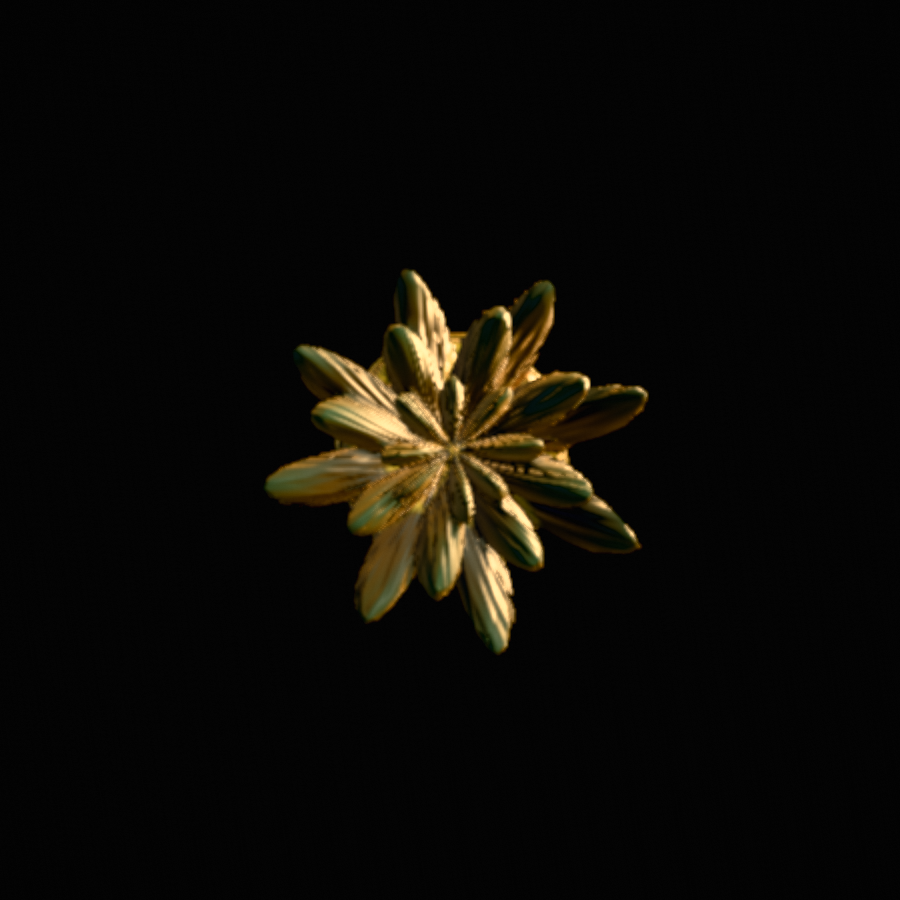
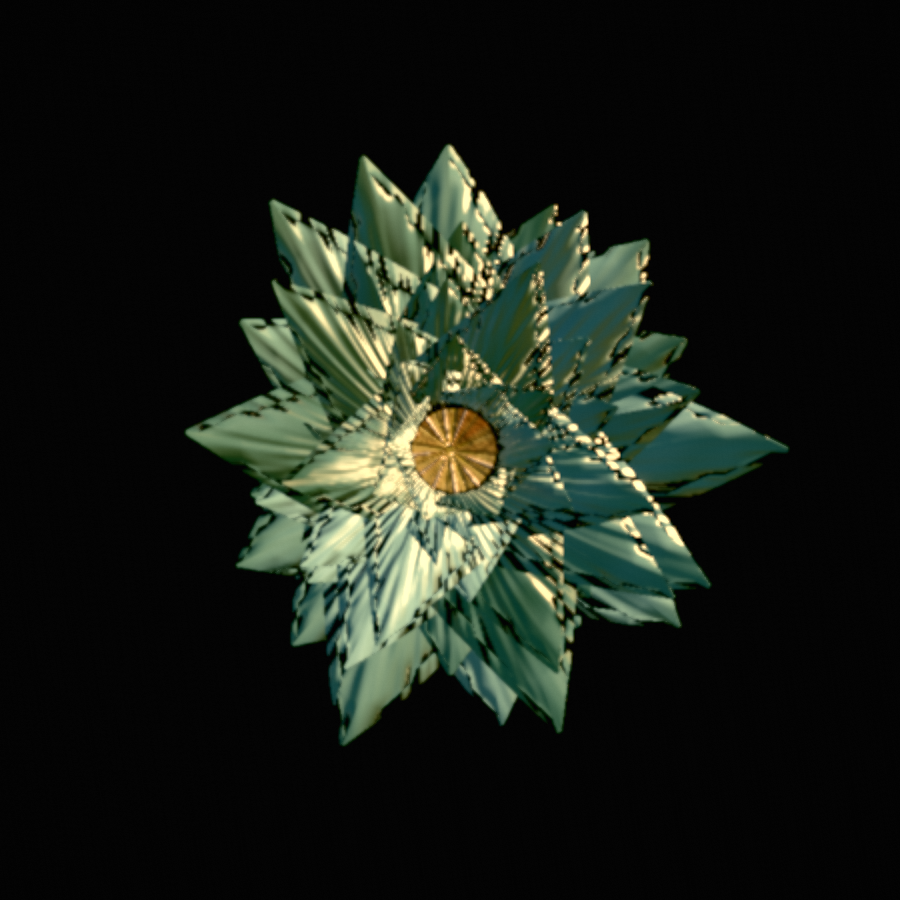
r48: the pineapple crown and cut face — real leaves on a small hub, grey-green rosette, rind and cream flesh (#44)
The pineapple's crown and its sliced face, iterated against reference
photos through the same render-and-measure loop as the shell (#42).

**Crown (r48–r48e).** The radial-bump crown could not root on a small
disc and lean outward at once, so the pineapple now uses the
strawberry's real-leaf builder: six whorls of pillow leaves on a hub
0.36 body radii wide, spines curving outward, basal leaflets around the
hub, ~45% of body height by design (slicing through leaves is not the
fun part). Leaf shading gained per-material options on the shared law —
fresh-green ramp, sheen and clearcoat gated off appendages, a mottled
grey-green bloom with per-blade variation and hub occlusion, a leaf-only
emissive standing in for translucency — all runtime uniforms
(`window.__zsLeaf`, `leaf.` keys in `tools/pineloop.mjs`).

**Bugs found on the way.** Leaf strip winding flipped along a drooping
spine and back-face culling ate every other triangle (black strips) —
each triangle is now verified against its sheet normal. The sheen gate
returned a scalar and turned every sheened skin's sheen white (the kiwi
regression) — it carries the material's sheen colour now.

**Cut face (r48g–r48h).** Every crown cut was falling to the cutter's
soup cap: grazing crossings through the thin leaves dropped the
chainer's coverage under its floor, so no rind ring and leaf sections
painted as flesh. Leaf crossings now chain apart from the body's;
[…]

Changed region(s): [[0.1867, 0.1556, 0.8711, 0.84]]

diff --git a/src/fruit/species.js b/src/fruit/species.js
@@ -2190,6 +2190,27 @@ function skinMaterial(sp, body, o = {}) {
   // brighter, more saturated foliage than plate-01's grey-green crown.
   const A_FOLF = fromKeyLit(0.0560, 0.1240, 0.0510);
 
+  // r48b: the leaf options are UNIFORMS (tunable at runtime through
+  // window.__zsLeaf for the pineapple), defaults from `o`
+  const LU = {
+    tint: uniform(new THREE.Vector3(...(o.leafTint || [1, 1, 1]))),
+    bloom: uniform(o.leafBloom || 0), bloomSpan: uniform(o.leafBloomSpan ?? 0.55),
+    bloomColor: uniform(new THREE.Vector3(...(o.leafBloomColor || [0.11, 0.125, 0.105]))),
+    mottle: uniform(o.leafMottle || 0), glow: uniform(o.leafGlow || 0),
+    // r48d: the range's two ends and its per-leaf spread — how dark the
+    // un-bloomed green goes (mottleDark), how far the bloom amount swings
+    // (mottleRange), per-blade variation from the blade's own uv.x (leafVar),
+    // and a darkening toward the hub that reads as occlusion (leafAO)
+    mottleDark: uniform(o.leafMottleDark ?? 0.45), mottleRange: uniform(o.leafMottleRange ?? 0.5),
+    leafVar: uniform(o.leafVar ?? 0.0), leafAO: uniform(o.leafAO ?? 0.0),
+  };
+  m.userData.leafU = LU;
+  if (typeof window !== 'undefined' && sp.id === 'pineapple') {
+    window.__zsLeaf = {
+      set(k, v) { const x = LU[k]; if (!x) return false; if (Array.isArray(v)) x.value.set(v[0], v[1], v[2]); else x.value = v; return true; },
+      get: () => Object.fromEntries(Object.entries(LU).map(([k, x]) => [k, x.value.isVector3 ? [x.value.x, x.value.y, x.value.z] : x.value])),
+    };
+  }
   m.colorNode = Fn(() => {
     const f = frame();
     // r47o `o.capK`: a per-material ceiling factor (skins have no floor, so
@@ -2206,7 +2227,7 @@ function skinMaterial(sp, body, o = {}) {
     // r47c `o.leafTint`: a per-material multiplier on the foliage colour —
     // the pineapple crown on the reference is a brighter, greyer green than
     // plate-01's, and its blades are broad enough to want it
-    const tintV = o.leafTint ? vec3(o.leafTint[0], o.leafTint[1], o.leafTint[2]) : vec3(1.0, 1.0, 1.0);
+    const tintV = LU.tint;
     const leafC = (o.leafFresh
       // fresh: green from the root, no die-back straw at the tip
       ? mix(A_ROOT, A_FOLF, ss(1.030, 1.200, a.y)).mul(vary.mul(0.20).add(1.0))
@@ -2219,9 +2240,26 @@ function skinMaterial(sp, body, o = {}) {
       .toVar();
     // r47e `o.leafBloom`: a waxy grey-white bloom over the lower blade, as
     // on a pineapple crown's rosette — strongest at the root, gone by mid-blade
-    const bloomed = o.leafBloom
-      ? mix(leafC.mul(tintV), fromKeyLit(0.1100, 0.1250, 0.1050), ss(0.55, 0.05, a.bh).mul(o.leafBloom))
-      : leafC.mul(tintV);
+    // `o.leafBloomSpan` (r48): how far up the blade the bloom reaches — 0.55
+    // is the root-only bloom of r47e; the pineapple's crown is waxy grey-green
+    // to the tips on the reference, so it runs the whole blade (1.0)
+    // `o.leafMottle` (r48b): the bloom is UNEVEN — on the reference crown the
+    // wax sits in pale grey patches, thins to mid grey-green, and the leaf
+    // margins stay a darker green. A low-frequency field over position drives
+    // the bloom amount and darkens the leaf where the bloom thins, so the
+    // rosette is three greens instead of one.
+    const field = fbm2(vec2(f.P.x.mul(2.6).add(f.P.z.mul(1.9)), f.P.y.mul(1.7).add(f.P.z.mul(0.8))), 2, float(1.0)).mul(0.5).add(0.5);
+    // per-blade: a hash of the blade's uv.x (constant along a real leaf)
+    const perLeaf = fract(sin(uv().x.mul(537.13).add(11.7)).mul(43758.5453));
+    const mott = mix(field, perLeaf, LU.leafVar).toVar();
+    const bloomAmt = LU.bloom.mul(mott.mul(LU.mottle).mul(LU.mottleRange.mul(2.0)).add(float(1.0).sub(LU.mottle.mul(LU.mottleRange))));
+    const ao = float(1.0).sub(ss(0.45, 0.0, a.bh).mul(LU.leafAO));
+    const leafBase = leafC.mul(tintV).mul(float(1.0).sub(mott.oneMinus().mul(LU.mottle).mul(LU.mottleDark))).mul(ao);
+    const E = vec3(E_KEY[0], E_KEY[1], E_KEY[2]);
+    // bloom mask: full below `span − 0.3`, fading out by `span + 0.3` (r48c —
+    // the old ss(span, 0.05, bh) faded to ZERO at the tip, so "span 1.0"
+    // half-bloomed the blade and no bloom colour could read as pale)
+    const bloomed = mix(leafBase, LU.bloomColor.div(E).mul(ao), ss(LU.bloomSpan.add(0.3), LU.bloomSpan.sub(0.3), a.bh).mul(bloomAmt).clamp(0.0, 1.0));
     alb.assign(mix(alb, bloomed, a.leafy));
     alb.assign(mix(alb, woodC, a.wood));
     return alb;
@@ -2254,6 +2292,32 @@ function skinMaterial(sp, body, o = {}) {
     m.clearcoatNode = Fn(() => {
       const a = appendage();
       return float(cc0).mul(max(a.leafy, a.wood).mul(0.88).oneMinus());
+    })();
+  }
+  // r48 `o.leafGlow`: a faint self-lit term on foliage only — a stand-in for a
+  // thin leaf's translucency. The pineapple's recurving outer leaves show the
+  // camera their UNDERSIDES, which face away from the key over a black void
+  // and rendered as black spikes; a real crown's undersides are lit through.
+  if (o.leafGlow > 0) {
+    m.emissiveNode = Fn(() => {
+      const a = appendage();
+      const f = frame();
+      const vary = ringN(f.lon, 11.0, a.y.mul(2.2));
+      const base = o.leafFresh ? A_FOLF : A_FOL;
+      return base.mul(LU.tint).mul(vary.mul(0.15).add(1.0)).mul(a.leafy.mul(LU.glow));
+    })();
+  }
+  // r48: the same for SHEEN — the pineapple's gold sheen on its leaves read as
+  // a yellow glint where the reference crown has a grey-white bloom
+  // (r48f: sheenNode is the sheen COLOUR × amount as a vec3 — a scalar here
+  // made every sheened skin's sheen WHITE, which turned the kiwi's brown fuzz
+  // white-grey. It carries the material's own sheenColor now.)
+  if ((o.mat && o.mat.sheen) > 0) {
+    const sh0 = o.mat.sheen;
+    const sc = o.mat.sheenColor || new THREE.Color(1, 1, 1);
+    m.sheenNode = Fn(() => {
+      const a = appendage();
+      return vec3(sc.r, sc.g, sc.b).mul(sh0).mul(max(a.leafy, a.wood).mul(0.9).oneMinus());
     })();
   }
 
@@ -3911,9 +3975,12 @@ function pineTune() {
 // ─────────────────────────────────────────────────────────────────────────────
 
 function paLayers(cc) {
+  // r48g, from the reference cut: a paler core to ~0.28 of the radius, a
+  // thin DARK GREEN rind (~4% of the radius) with a yellow-green inner edge
   return {
-    core: ss(0.24, 0.06, cc.rad).toVar(),
-    shell: ss(0.930, 0.985, cc.rad),
+    core: ss(0.30, 0.10, cc.rad).toVar(),
+    shell: ss(0.945, 0.965, cc.rad),
+    rindEdge: ss(0.905, 0.925, cc.rad).mul(ss(0.965, 0.945, cc.rad)),
   };
 }
 
@@ -4068,7 +4135,12 @@ def({
       bump: 0.0220,
       // the crown: brighter grey-green, calmer ribs (the 26-per-turn rib ran
       // as striping on the device)
-      leafTint: [1.30, 1.28, 1.22], rib: 0.6, leafBloom: 0.55, capK: 1.12,
+      // r48: real leaves (geometry.js buildLeafCrown) — green from the root
+      // like the strawberry's calyx; the shared brown-root ramp painted most
+      // of a real blade brown, since its uv band starts at 1.0 at the hub
+      leafFresh: true, leafTint: [1.50, 1.62, 1.42], rib: 0.5,
+      leafBloom: 0.90, leafBloomSpan: 1.0, leafBloomColor: [0.3600, 0.4600, 0.3400], leafMottle: 1.0, leafGlow: 0.20,
+      leafMottleDark: 0.90, leafMottleRange: 1.00, leafVar: 0.60, leafAO: 0.50, capK: 1.12,
       // r47i: the shell GLINTS — a waxed rind under the key. Clearcoat and
       // specular up (the player: "I want light to really glint off this")
       mat: {
@@ -4086,7 +4158,8 @@ def({
     const pockets = (cc) => {
       const p = vec2(cc.aN.mul(14.0), cc.rad.mul(4.5)).toVar();
       const c = cellPt(p, 7.0, 0.8, 14);
-      const band = ss(0.22, 0.34, cc.rad).mul(ss(0.78, 0.90, cc.rad).oneMinus());
+      // r48g: the pits sit along the RIND on the reference, not mid-flesh
+      const band = ss(0.84, 0.90, cc.rad).mul(ss(0.99, 0.95, cc.rad));
       return blob(c.d, 0.20, 0.40).mul(step(0.30, c.id)).mul(band).mul(cellFade(p)).toVar();
     };
     // r37 — THE CROWN CUT. A lengthwise slice runs through the crown, and the
@@ -4102,59 +4175,60 @@ def({
     // hook: no foam, no juice pool, no wet gloss on a leaf (matte 0.82), and
     // the sss transmission is gated below for the same reason.
     const crownCut = () => step(8.0, uv().x);
+    // r48h: where on the fruit this rim sits — the cutter writes the rim's
+    // source skin uv.y into the cap's u (0.02 bottom … 0.98 top). The rind
+    // ends at the crown base instead of crossing under the crown.
+    const topOfFruit = () => ss(0.84, 0.94, fract(uv().x));
     return fleshMaterial(this, {
       dry: () => crownCut(),
       albedo: (cc, u) => {
         const { ang, rad, q } = cc;
-        const fib = ringN(ang, 18.0, rad.mul(2.6).add(2.0)).mul(ss(0.05, 0.30, rad))
-          .add(ringN(ang, 38.0, rad.mul(4.2).add(9.0)).mul(0.6)
-            .mul(ss(0.26, 0.60, rad)).mul(u.detail)).toVar();
-        const gr = fbm2(q.mul(28.0), 2, u.detail).toVar();
-
-        // ROUND 4, case A. The fib/gr tail peaks at 1.20, so the base's budget
-        // is 0.90/1.20 = 0.75; 0.67 leaves the peak at 0.582 scene-linear.
-        // ROUND 5, case B, x0.44: 0.582 was the peak at N.L = 0.49 and 1.29 at
-        // N.L = 1. Now 0.546 at N.L = 1, and the soft ceiling in fleshMaterial
-        // takes the very top of the fib tail rather than letting it clip.
-        const alb = vec3(0.2948, 0.1989, 0.0286)
-          .mul(fib.mul(0.42).add(gr.mul(0.18)).add(0.80)).toVar();
-        // eye pockets: darker fibrous nodes in concentric arcs
-        alb.assign(mix(alb, vec3(0.1232, 0.0616, 0.0092), pockets(cc).mul(0.80)));
-
         const L = paLayers(cc);
         const kr = capKey();
-        alb.assign(mix(alb, vec3(0.3080, 0.2825, 0.1668)
-          .mul(rdg2(vec2(ang.mul(10.0), rad.mul(22.0)), 2).mul(0.26).add(0.86)), L.core.mul(0.90)));
-        alb.mulAssign(ss(0.790, 0.872, rad).mul(ss(0.872, 0.930, rad).oneMinus())
-          .mul(0.44).oneMinus());
-        alb.assign(mix(alb, vec3(0.1452, 0.0792, 0.0132).mul(kr), L.shell));
-        // leaf interior: the crown's own grey-green (the skin's bract tint,
-        // shaded a touch darker — an interior face sees less light), with a
-        // little fbm so a wide blade cross-section is not a flat decal
+        // r48h, from the reference cut: the centre half is a rich juicy
+        // yellow; toward the rind it goes whiter and finely fibrous. No
+        // spokes, no star — the fibres are fine radial lines at low
+        // contrast, denser near the edge.
+        const toEdge = ss(0.35, 0.95, rad);
+        const fine = ringN(ang, 64.0, rad.mul(5.0)).mul(0.5).add(0.5)
+          .mul(ss(0.30, 0.80, rad)).mul(u.detail);
+        const gr = fbm2(q.mul(14.0), 2, u.detail).mul(0.5).add(0.5);
+        const rich = vec3(0.4700, 0.3600, 0.0900), cream = vec3(0.4300, 0.4000, 0.1900);
+        const alb = mix(rich, cream, toEdge).mul(gr.mul(0.06).add(0.97)).toVar();
+        alb.assign(mix(alb, cream.mul(1.04), fine.mul(0.35)));
+        // the core: a soft pale disc, no striations
+        alb.assign(mix(alb, vec3(0.4300, 0.4100, 0.2600), L.core.mul(0.6)));
+        // the rind: a yellow-green inner edge, then dark green skin — ending
+        // where the rim is the fruit's top (the crown base)
+        const notTop = topOfFruit().oneMinus();
+        alb.assign(mix(alb, vec3(0.0900, 0.0500, 0.0100), pockets(cc).mul(0.85).mul(notTop)));
+        alb.assign(mix(alb, vec3(0.2200, 0.2400, 0.0600), L.rindEdge.mul(0.9).mul(notTop)));
+        alb.assign(mix(alb, vec3(0.0500, 0.0900, 0.0200).mul(kr), L.shell.mul(notTop)));
+        // leaf interior: the crown's own grey-green, shaded a touch darker
         const leaf = vec3(0.1050, 0.1480, 0.0330)
           .mul(fbm2(q.mul(16.0), 2, u.detail).mul(0.30).add(0.85)).toVar();
         alb.assign(mix(alb, leaf, crownCut()));
         return alb;
       },
       relief: (cc, u) => {
-        const L = paLayers(cc);
-        // leaves are smooth inside: fade the fibre rings out across the gate
-        return ringN(cc.ang, 18.0, cc.rad.mul(2.6).add(2.0)).mul(0.85)
-          .add(fbm2(cc.q.mul(28.0), 2, u.detail).mul(0.4))
-          .sub(pockets(cc).mul(0.8)).add(L.core.mul(0.45))
+        // smooth and wet: fine fibres only, a little grain, nothing lumpy
+        return ringN(cc.ang, 64.0, cc.rad.mul(5.0)).mul(0.30).mul(ss(0.30, 0.80, cc.rad))
+          .add(fbm2(cc.q.mul(14.0), 2, u.detail).mul(0.15))
           .mul(crownCut().mul(0.85).oneMinus());
       },
       rough: (cc, u) => {
         const L = paLayers(cc);
-        return mix(u.rough, float(0.55), L.core).add(L.shell.mul(0.25));
+        // as wet as it goes: a juice-slick face, the core a touch drier,
+        // the rind matte
+        return mix(u.rough, float(0.30), L.core).add(L.shell.mul(0.35));
       },
       sssMask: (cc) => {
         const L = paLayers(cc);
         // a leaf does not glow with transmitted juice light
-        return L.shell.oneMinus().mul(L.core.mul(0.7).oneMinus())
+        return L.shell.oneMinus().mul(L.core.mul(0.6).oneMinus())
           .mul(crownCut().oneMinus());
       },
-    }, { rough: 0.32, wet: 0.95, bump: 0.0298, floor: [0.1300, 0.0770, 0.0110] });
+    }, { rough: 0.16, wet: 1.0, bump: 0.0120, floor: [0.1300, 0.0770, 0.0110] });
   },
 });
 

diff --git a/src/fruit/geometry.js b/src/fruit/geometry.js
@@ -2020,12 +2020,18 @@ export const SHAPE_VARIANTS = {
       },
       pineapple: {
         lumps: 0.010,
-        crown: {
-          cols: 88,
+        // r48: REAL LEAVES (buildLeafCrown), as the strawberry's calyx — a
+        // rosette on a small hub at the pole, spines curving outward, air
+        // under the blades. The body crown is deleted.
+        crown: null,
+        leaves: {
+          rootR: 0.36, rootLift: 0.03,
           whorls: [
-            { n: 8, a: 0.12, len: 1.911, wArc: 0.0820, round: true, skew: 0.25, wp: 0.220, pPol: 3.00, pAz: 1.15, phase: 0.00, jit: 0.05, jitA: 0.024 },
-            { n: 8, a: 0.29, len: 1.732, wArc: 0.0950, round: true, skew: 0.30, wp: 0.220, pPol: 3.00, pAz: 1.15, phase: 0.33, jit: 0.06, jitA: 0.028 },
-            { n: 8, a: 0.46, len: 1.466, wArc: 0.1070, round: true, skew: 0.55, wp: 0.220, pPol: 3.00, pAz: 1.15, phase: 0.67, jit: 0.07, jitA: 0.032 },
+            { n: 12, beta: 0.03, len: 2.17, width: 0.51, thick: 0.06, droop: 0.15, kick: 0.03, cup: 0.45, jitPhi: 0.1, jitBeta: 0.05, jitLen: 0.25 },
+            { n: 14, beta: 0.18, len: 2.45, width: 0.6, thick: 0.06, droop: 0.42, kick: 0.12, cup: 0.45, phase: 0.5, jitPhi: 0.1, jitBeta: 0.08, jitLen: 0.25 },
+            { n: 16, beta: 0.34, len: 2.31, width: 0.724, thick: 0.06, droop: 0.62, kick: 0.22, cup: 0.45, phase: 0.25, jitPhi: 0.1, jitBeta: 0.1, jitLen: 0.25 },
+            { n: 16, beta: 0.55, len: 1.82, width: 0.724, thick: 0.06, droop: 1.2, kick: 0.4, cup: 0.45, phase: 0.75, jitPhi: 0.12, jitBeta: 0.12, jitLen: 0.25 },
+            { n: 22, beta: 1.05, len: 0.84, width: 0.34, thick: 0.06, droop: 0.45, kick: 0.15, cup: 0.35, phase: 0.35, jitPhi: 0.14, jitBeta: 0.18, jitLen: 0.3 },
           ],
         },
       },
@@ -2526,7 +2532,7 @@ function bladeHeight(blades, a, phi) {
  * path — with no shader work here.
  */
 function buildLeafCrown(LS, yRoot, seedPh) {
-  const P = [], UV = [], idx = [];
+  const P = [], UV = [], idx = [], SN = [];
   const SEC = 8;                       // cross sections along the spine
   const rootR = LS.rootR ?? 0.06;
   let wi = 0;
@@ -2543,10 +2549,13 @@ function buildLeafCrown(LS, yRoot, seedPh) {
       const base = P.length / 3;
       let dR = rootR, yy = yRoot + (LS.rootLift ?? 0.0);
       const ds = L / (SEC - 1);
+      let rootDir = [0, 1, 0], tipDir = [0, 1, 0];
       for (let sI = 0; sI < SEC; sI++) {
         const s = sI / (SEC - 1);
         const theta = beta + (w.droop || 0) * s - (w.kick || 0) * s * s;
         const st = Math.sin(theta), ct = Math.cos(theta);
+        if (sI === 0) rootDir = [st * er[0], ct, st * er[2]];
+        if (sI === SEC - 1) tipDir = [st * er[0], ct, st * er[2]];
         // in-plane sheet normal (perpendicular to the spine, pointing up-out)
         const nr = -ct, ny = st;
         // blade half-width: broad by 40% out, tapering to a point
@@ -2567,6 +2576,7 @@ function buildLeafCrown(LS, yRoot, seedPh) {
         const bmx = cx - 0.5 * th * (nr * er[0]), bmy = cy - 0.5 * th * ny;
         const bmz = cz - 0.5 * th * (nr * er[2]);
         P.push(exm, eym, ezm, exp_, eym, ezp, tmx, tmy, tmz, bmx, bmy, bmz);
+        SN.push(nr * er[0], ny, nr * er[2]);   // the section's sheet normal (r48c)
         const u = phi / TAU - Math.floor(phi / TAU);
         const v = 1.0 + 0.66 * s;      // the LEAF uv band — see the contract
         UV.push(u, v, u, v, u, v, u, v);
@@ -2576,15 +2586,53 @@ function buildLeafCrown(LS, yRoot, seedPh) {
       // stitch sections: per pair, 4 top + 4 bottom triangles.
       // Winding derived in the local frame (X=azimuth, up=sheet normal,
       // Z=spine): top sheet CCW seen from the normal side, bottom reversed.
+      // r48c: and then VERIFIED per triangle against the section's sheet
+      // normal — on the pineapple's long, drooping, cupped blades the local
+      // frame's handedness flips along the spine and every other strip
+      // triangle came out inward, which back-face culling turned into black
+      // stair-stepped strips down each leaf (the strawberry's short calyx
+      // never showed it). A triangle whose geometric normal opposes its
+      // sheet's expected side is flipped here, so nothing is culled.
+      const tri = (i0, i1, i2, wantUp) => {
+        const x0 = P[i0 * 3], y0 = P[i0 * 3 + 1], z0 = P[i0 * 3 + 2];
+        const ux = P[i1 * 3] - x0, uy = P[i1 * 3 + 1] - y0, uz = P[i1 * 3 + 2] - z0;
+        const vx = P[i2 * 3] - x0, vy = P[i2 * 3 + 1] - y0, vz = P[i2 * 3 + 2] - z0;
+        const nx = uy * vz - uz * vy, ny_ = uz * vx - ux * vz, nz = ux * vy - uy * vx;
+        const sIdx = ((i0 - base) >> 2), so = (sIdx - 0) * 3;   // section of vertex i0
+        const d = nx * SN[SNbase + so] + ny_ * SN[SNbase + so + 1] + nz * SN[SNbase + so + 2];
+        if ((d < 0) === wantUp) idx.push(i0, i2, i1); else idx.push(i0, i1, i2);
+      };
+      const SNbase = (base / 4) * 3;
       for (let sI = 0; sI + 1 < SEC; sI++) {
         const a = base + sI * 4, b = base + (sI + 1) * 4;
         const aM = a, aP = a + 1, aT = a + 2, aB = a + 3;
         const bM = b, bP = b + 1, bT = b + 2, bB = b + 3;
-        idx.push(aM, bT, aT, aM, bM, bT);        // top, − half
-        idx.push(aT, bT, bP, aT, bP, aP);        // top, + half
-        idx.push(aM, aB, bB, aM, bB, bM);        // bottom, − half
-        idx.push(aB, aP, bP, aB, bP, bB);        // bottom, + half
+        tri(aM, bT, aT, true); tri(aM, bM, bT, true);       // top, − half
+        tri(aT, bT, bP, true); tri(aT, bP, aP, true);       // top, + half
+        tri(aM, aB, bB, false); tri(aM, bB, bM, false);     // bottom, − half
+        tri(aB, aP, bP, false); tri(aB, bP, bB, false);     // bottom, + half
       }
+      // r48g: CLOSE the pillow at both ends. The root diamond was left open
+      // ("buried in the hub, never visible") and so was the tip's — and a cut
+      // plane through an open end yields an open crossing run. On the
+      // pineapple's 60-leaf crown that dropped the chainer's coverage under
+      // its 92% floor, so EVERY crown cut fell to the soup cap: no rind ring,
+      // and leaf cross-sections painted as flesh with no dry flag. Two
+      // triangles per end, wound to face out along the spine.
+      const endCap = (sec, dir) => {
+        const M = base + sec * 4, Pp = M + 1, Tt = M + 2, Bb = M + 3;
+        const nx = dir[0], ny_ = dir[1], nz = dir[2];
+        const face = (i0, i1, i2) => {
+          const x0 = P[i0 * 3], y0 = P[i0 * 3 + 1], z0 = P[i0 * 3 + 2];
+          const ux = P[i1 * 3] - x0, uy = P[i1 * 3 + 1] - y0, uz = P[i1 * 3 + 2] - z0;
+          const vx = P[i2 * 3] - x0, vy = P[i2 * 3 + 1] - y0, vz = P[i2 * 3 + 2] - z0;
+          const d = (uy * vz - uz * vy) * nx + (uz * vx - ux * vz) * ny_ + (ux * vy - uy * vx) * nz;
+          if (d < 0) idx.push(i0, i2, i1); else idx.push(i0, i1, i2);
+        };
+        face(M, Tt, Pp); face(M, Pp, Bb);
+      };
+      endCap(0, [-rootDir[0], -rootDir[1], -rootDir[2]]);
+      endCap(SEC - 1, tipDir);
       wi++;
     }
   }

diff --git a/src/slice/cutter.js b/src/slice/cutter.js
@@ -287,11 +287,30 @@ export function cutGeometry(geom, plane, rindThickness = 0.055, _retry = 0) {
   if (N.empty) return { pos: geom, neg: null, ring: null };
 
   // ── Build the cut rings, then both cut faces off one shared resampling ─────
-  const ch = chainLoops(segs);
+  // r48g: LEAF CROSSINGS ARE CHAINED APART FROM THE BODY'S. The pineapple's
+  // crown is sixty thin radial leaf pillows, and a lengthwise cut plane runs
+  // along the spine of the ones lying in it — a grazing cut whose crossing
+  // runs cannot close. Counted against the body's coverage they dropped it
+  // under the 92% floor on EVERY crown cut, so the whole fruit fell to the
+  // soup cap: no rind ring, and leaf cross-sections painted as flesh with no
+  // dry flag. A crossing whose both ends carry the appendage uv band is a
+  // leaf crossing: the body chains on its own (and keeps its rich cap), the
+  // leaf runs chain separately — closed ones get the flat dry-flagged fan,
+  // open ones are dropped (a grazed leaf shows its shell, not yellow).
+  const isLeafSeg = (sg) => (sg[0][3] || 0) > 0.99 && (sg[1][3] || 0) > 0.99;
+  const bodySegs = [], leafSegs = [];
+  for (let i = 0; i < segs.length; i++) (isLeafSeg(segs[i]) ? leafSegs : bodySegs).push(segs[i]);
+  const ch = chainLoops(bodySegs);
   const loops = ch.loops;
   let ring = null, covered = 0;
   for (let i = 0; i < loops.length; i++) covered += loops[i].length;
   if (covered >= ch.total * 0.92 && loops.length) {
+    if (leafSegs.length >= 3) {
+      const lch = chainLoops(leafSegs);
+      for (let i = 0; i < lch.loops.length; i++) {
+        addFlatCap(P, lch.loops[i], plane, +1, 16); addFlatCap(N, lch.loops[i], plane, -1, 16);
+      }
+    }
     // A fruit with real surface relief gives one big loop and a scatter of tiny
     // ones around individual bumps. The tiny ones are a couple of pixels across
     // and cannot show a rind, so they get the flat fan: on the pineapple that is
@@ -995,7 +1014,10 @@ function addCap(side, R, sign) {
     const g = (m * N + i) * 3, a = B ? NB : NA;
     cP[o] = G[g]; cP[o + 1] = G[g + 1]; cP[o + 2] = G[g + 2];
     cN[o] = a[g]; cN[o + 1] = a[g + 1]; cN[o + 2] = a[g + 2];
-    cU[ou] = S.uA[i] + uOffAt(i); cU[ou + 1] = RV[m];
+    // r48h: the cap's u carries the rim's SOURCE skin uv.y (body 0.02–0.98,
+    // bottom → top; leaves > 1) plus the dry flag — no material derives the
+    // cap angle from u, so the pineapple can end its rind at the crown base
+    cU[ou] = S.uy[i] + uOffAt(i); cU[ou + 1] = RV[m];
   }
   /** same, into the skin buffer; always group B */
   function ws(m, i) {
